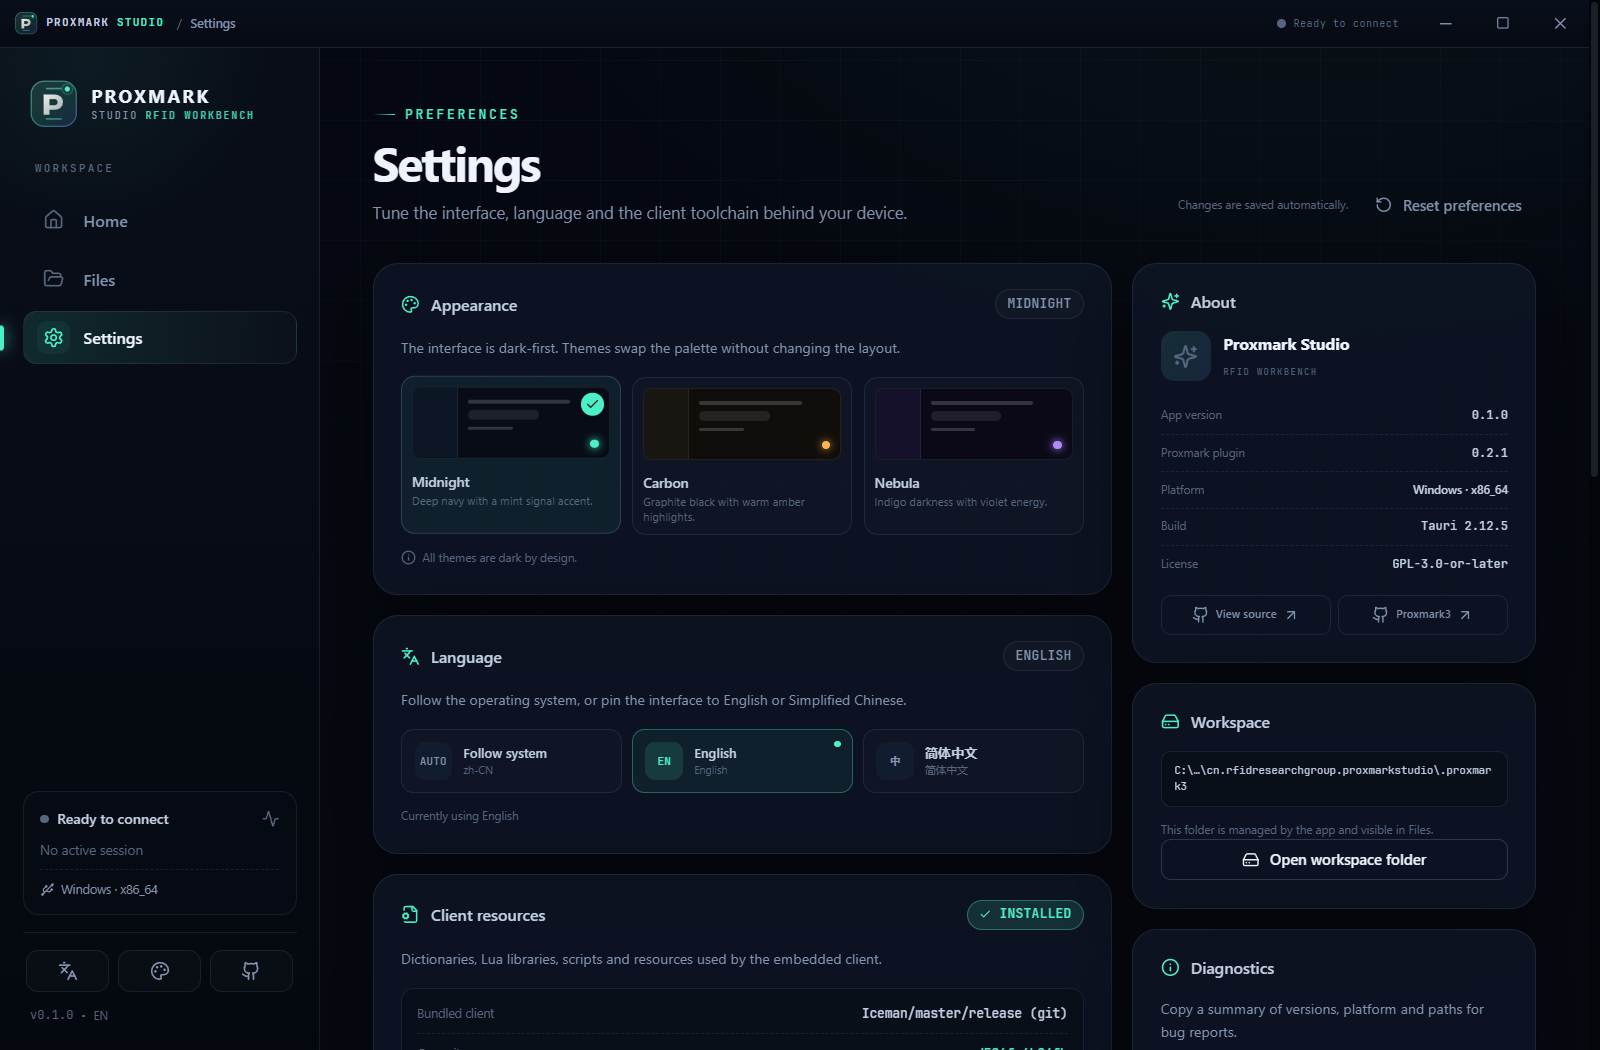
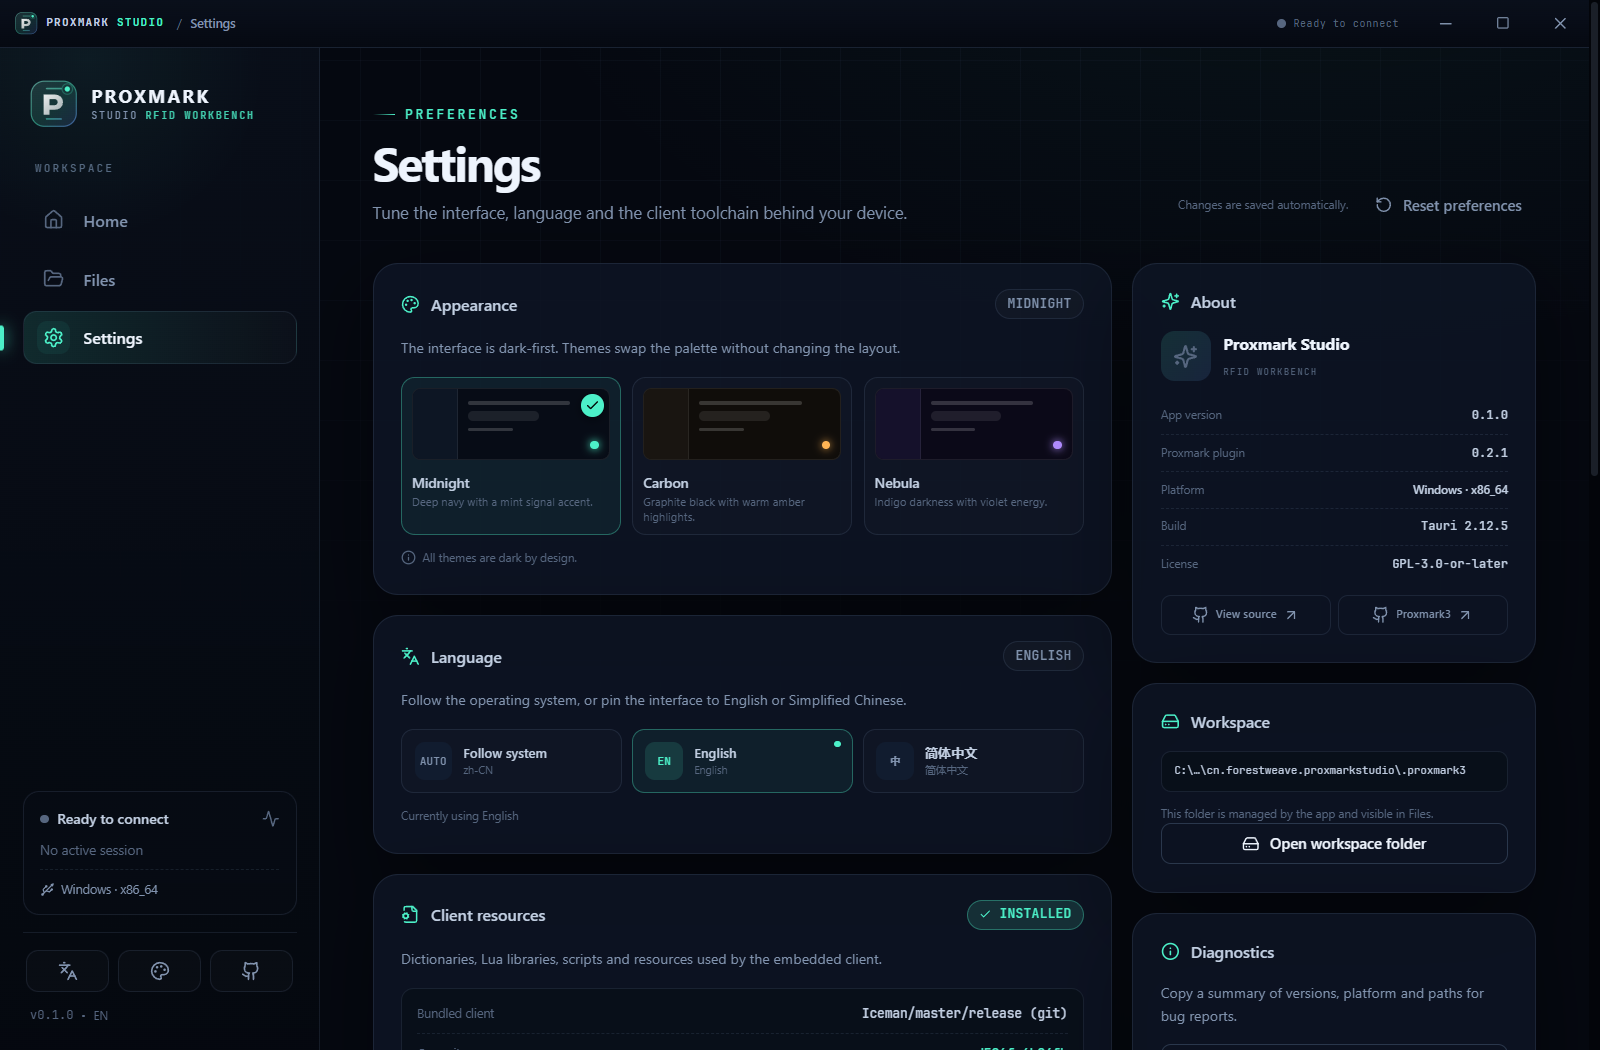
chore: finalize cn.forestweave package identifier

diff --git a/src/services/mockBackend.ts b/src/services/mockBackend.ts
@@ -11,7 +11,7 @@ import type {
   SerialPortInfo,
 } from './backend'
 
-const MOCK_ROOT = 'C:\\Users\\rfid\\AppData\\Roaming\\cn.rfidresearchgroup.proxmarkstudio\\.proxmark3'
+const MOCK_ROOT = 'C:\\Users\\rfid\\AppData\\Roaming\\cn.forestweave.proxmarkstudio\\.proxmark3'
 const RELEASE_TAG = 'v0.2.1'
 const EXPECTED_COMMIT = 'd596fe6b04fb90356f04433eb82ff1ae354ada40'
 

diff --git a/src-tauri/gen/android/app/src/main/java/cn/forestweave/proxmarkstudio/MainActivity.kt b/src-tauri/gen/android/app/src/main/java/cn/forestweave/proxmarkstudio/MainActivity.kt
@@ -1,4 +1,4 @@
-package cn.rfidresearchgroup.proxmarkstudio
+package cn.forestweave.proxmarkstudio
 
 import android.os.Bundle
 import androidx.activity.enableEdgeToEdge
@@ -9,4 +9,5 @@ class MainActivity : TauriActivity() {
     super.onCreate(savedInstanceState)
   }
 }
+
 

diff --git a/README.md b/README.md
@@ -231,8 +231,8 @@ support.
 | Download cache | `<app-data>/cache` |
 | App preferences | Local storage (`pm3-studio.*` keys) |
 
-`<app-data>` is `%APPDATA%\cn.rfidresearchgroup.proxmarkstudio` on Windows,
-`~/Library/Application Support/cn.rfidresearchgroup.proxmarkstudio` on macOS,
+`<app-data>` is `%APPDATA%\cn.forestweave.proxmarkstudio` on Windows,
+`~/Library/Application Support/cn.forestweave.proxmarkstudio` on macOS,
 and the XDG data directory on Linux.
 
 ## Notes and limitations
